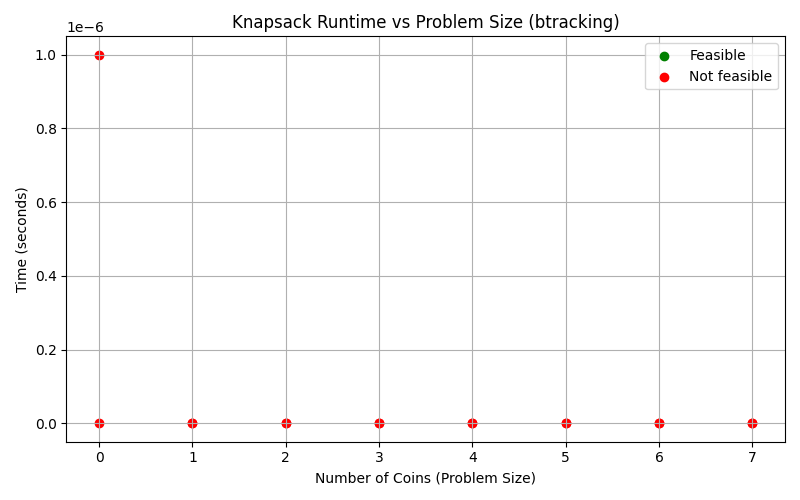
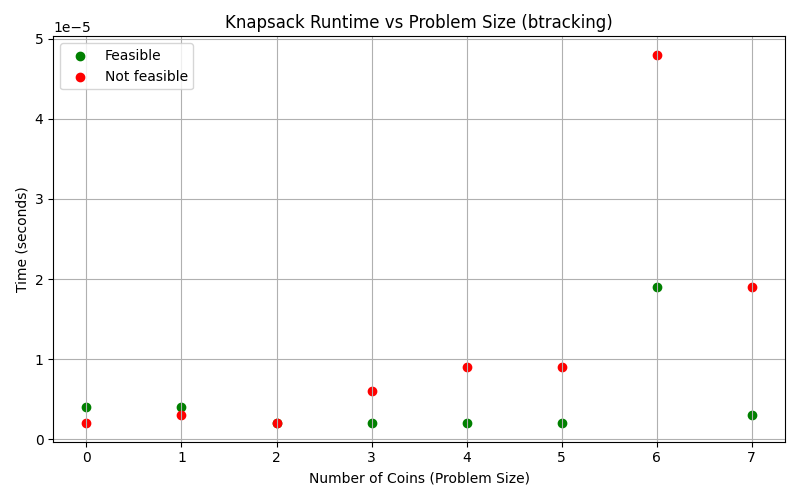
Backtracking added

diff --git a/src/knapsack_garcias.py b/src/knapsack_garcias.py
@@ -95,8 +95,34 @@ class Knapsack(KnapsackAbstractClass):
             (False, {})
             - Since it's not solvable we return False and an empty dictionary
         """
+        if not used:
+            used = defaultdict(int)
 
-        return False, "Not implemented"
+        if target == 0:
+            return True, dict(used)
+
+        # Try each coin
+        for coin, max_count in coins.items():
+
+            # Skip used up coins
+            if used[coin] >= max_count:
+                continue
+
+            # Choose the coin
+            used[coin] += 1
+
+            # Do the backtracking using recursion
+            feasible, solution = self.knapsack_backtracking(target - coin, coins, used)
+
+            if feasible:
+                return True, solution
+
+            # Backtrack 
+            used[coin] -= 1
+
+        # No solution
+        return False, {}
+
 
     def knapsack_bruteforce(self, target: int, coins: Dict[int,int], used: Dict[int,int] = None) -> Tuple[bool, Optional[Dict[int,int]]]:
         """
